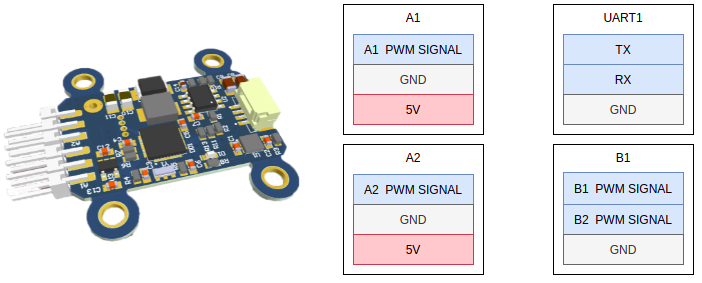
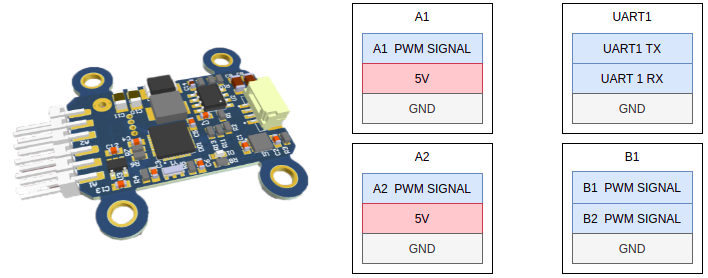
can_pwm: fix pins position on picture and update readme

diff --git a/doc/can_pwm/README.md b/doc/can_pwm/README.md
@@ -1,38 +1,57 @@
 # can-pwm
 
-The main goal of this board is to map [RawCommand](https://legacy.uavcan.org/Specification/7._List_of_standard_data_types/#rawcommand) messages into typical for servos and ESCs PWM (frequency 50 Hz and duration from 900 to 2000 us).
+This board is dedicated for controlling servos and ESCs. It maps [RawCommand](https://legacy.uavcan.org/Specification/7._List_of_standard_data_types/#rawcommand) UAVCAN messages given from CAN bus into PWM signal (frequency 50 Hz and duration from 900 to 2000 us).
 
-Depending on firmware it works in 2 modes:
-1. servo/esc mode: up to 4 channels named A1, A2, B1, B2,
-2. (experimental) [esc flame](https://store.tmotor.com/category.php?id=20): up to 2 channels named A1, A2 and feedback with RPM and voltage
+It has 2 channels (A1 and A2) which might be directly connected to an actuator. Depending on firmware it also has:
+1. either 2 auxiliary channels named B1, B2,
+2. (experimental) or 2 auxiliary UART channels for getting feedback from [esc flame](https://store.tmotor.com/category.php?id=20)  with RPM and voltage.
 
 The illustration of this board and pin numeration shown below.
 
 ![scheme](can_pwm.png?raw=true "scheme")
 
-It is recommended to use only first 2 channels (A1, A2) because other channels have non-standard pins position yet.
-
-```
-TODO: check is GND and 5V on the picrure above are correct!!! Is it depends on the board?
-```
-
 ## Content
-  - [1. How to connect](#1-how-to-connect)
-  - [2. Mapping and params](#2-mapping-and-params)
-  - [3. Led indication](#3-led-indication)
-  - [4. Circuit status](#4-circuit-status)
-  - [5. Usage example](#5-usage-example)
+  - [1. UAVCAN interface](#1-uavcan-interface)
+  - [2. Hardware specification](#2-hardware-specification)
+  - [3. Wire](#3-wire)
+  - [4. Main function description](#4-main-function-description)
+  - [5. Auxiliary functions description](#5-auxiliary-function-description)
+  - [6. Led indication](#6-led-indication)
+  - [7. Usage example on a table](#7-usage-example-on-a-table)
+  - [8. UAV usage example](#8-uav-usage-example)
 
-## 1. How to connect
+## 1. UAVCAN interface
+
+This node interracts with following messages:
+
+| № | type      | message  |
+| - | --------- | -------- |
+| 1 | subscriber | [uavcan.equipment.esc.RawCommand](https://legacy.uavcan.org/Specification/7._List_of_standard_data_types/#rawcommand) |
+| 2 | publisher   | [uavcan.equipment.esc.Status](https://legacy.uavcan.org/Specification/7._List_of_standard_data_types/#status-2) |
+| 3 | publisher   | [uavcan.equipment.power.CircuitStatus](https://legacy.uavcan.org/Specification/7._List_of_standard_data_types/#circuitstatus) |
+
+Beside required and hightly recommended functions such as `NodeStatus` and `GetNodeInfo` this node also supports following application level functions:
+
+| № | type      | message  |
+| - | --------- | -------- |
+| 1 | service consumer | [uavcan.protocol.param](https://legacy.uavcan.org/Specification/7._List_of_standard_data_types/#uavcanprotocolparam) |
+| 2 | service consumer   | [uavcan.protocol.RestartNode](https://legacy.uavcan.org/Specification/7._List_of_standard_data_types/#restartnode) |
+| 3 | service consumer   | [uavcan.protocol.GetTransportStats](https://legacy.uavcan.org/Specification/7._List_of_standard_data_types/#gettransportstats) |
+
+## 2. Hardware specification
+
+(in process)
+
+## 3. Wire
 
 You can power this board using one of 2 CAN-sockets:
 
 - the little one - it has 5V
-- the big one - it up to 20V
+- the big one - it up to 60V
 
 It also has SWD socket that is dedicated for updating firmware using [programmer-sniffer](doc/programmer_sniffer/README.md) device.
 
-## 2. Mapping and params
+## 4. Main function description
 
 This node receives [RawCommand](https://legacy.uavcan.org/Specification/7._List_of_standard_data_types/#rawcommand) which has array with up to 20 channels and it is able to process up to 4 of them.
 
@@ -42,7 +61,6 @@ Configuration of such mapping might be done using 4 sets (named A1, A2, B1, B2) 
 - max - PWM duration corresponded highest level of RawCommand
 - def - default value of PWM; the corresponded channel will have this PWM duration if there is no RawCommand for few seconds or this command has negative value 
 
-
 Note, that value of `min` param might be more than value of `max` param and `def` value might be out of `min`/`max` range. It's up to you.
 
 Below you can see visualization of this mapping.
@@ -51,10 +69,19 @@ Below you can see visualization of this mapping.
 
 Configuration of mapping can be performed using `uavcan_gui_tool` or even `QGC`. Below you can see the table with these params in `uavcan_gui_tool`.
 
-
 ![scheme](can_pwm_params.png?raw=true "scheme")
 
-## 3. Led indication
+## 5. Auxiliary functions description
+
+**Circuit status**
+
+It also sends [uavcan.equipment.power.CircuitStatus](https://legacy.uavcan.org/Specification/7._List_of_standard_data_types/#circuitstatus) messages with measured `5V` and `Vin`.
+
+**Esc status**
+
+If you use esc firmware, it will sends [uavcan.equipment.esc.Status](https://legacy.uavcan.org/Specification/7._List_of_standard_data_types/#status-2) message with rpm, voltage and current given as feedback from `esc flame` via uart.
+
+## 6. Led indication
 
 This board has internal led that may allows you to understand possible problems. It blinks from 1 to 10 times within 4 seconds. By counting number of blinks you can define the code of current status.
 
@@ -66,13 +93,12 @@ This board has internal led that may allows you to understand possible problems.
 | 4                | ERROR          | There is a problem with circuit voltage, look at circuit status message to get details. It may happend when you power it from SWD, otherwise be carefull with power supply. |
 | 5                | CRITICAL       | There is a problem on periphery initialization level. Probably you load wrong firmware. |
 
-
-## 4. Circuit status
-
-It also sends [uavcan.equipment.power.CircuitStatus](https://legacy.uavcan.org/Specification/7._List_of_standard_data_types/#circuitstatus) messages with measured `5V` and `Vin`.
-
-## 5. Usage example
+## 7. Usage example on a table
 
 It is recommended to debug it with [uavcan_gui_tool](https://github.com/UAVCAN/gui_tool). You can setup parameters, connect servo to one of the channels and check it using `ESC panel` as shown below.
 
 ![esc_panel](esc_panel.png?raw=true "esc_panel")
+
+## 8. UAV usage example
+
+(in process)
